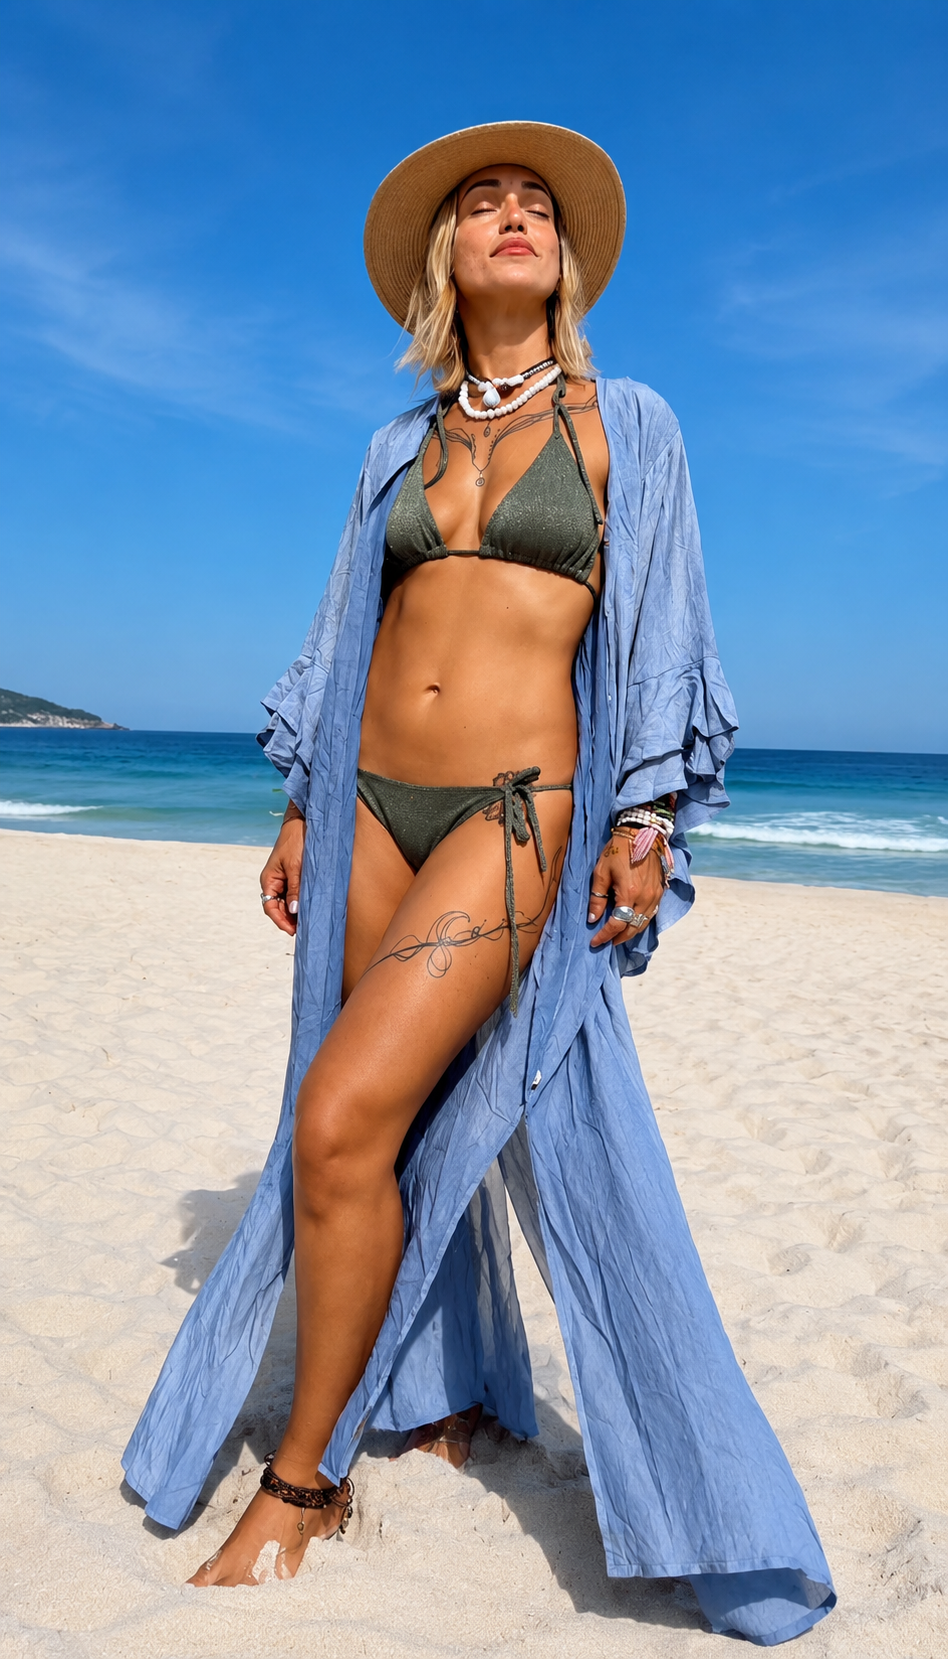
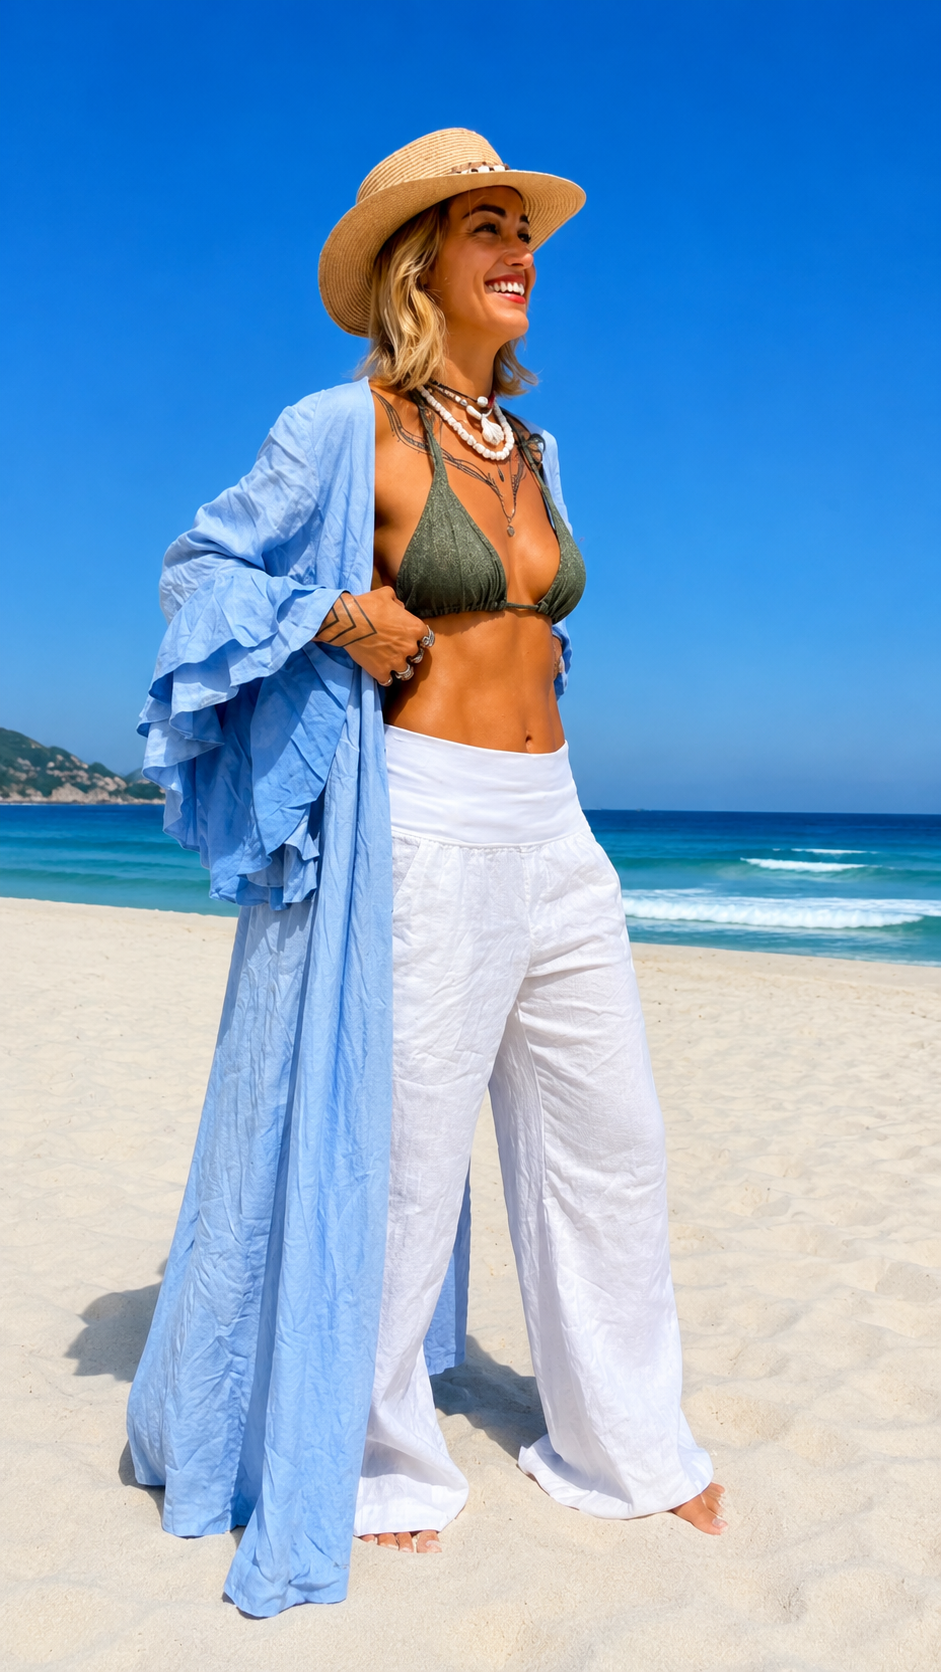
Fix Celeste image list for Chemisse Wave Voil Viscosa

diff --git a/products.js b/products.js
@@ -198,8 +198,8 @@ const products = [
             "images/Chemisse Azul Stone Medit 2002.png",
             "images/Chemisse Azul Stone Medit 2003.png",
             "images/Chemisse Azul Celeste 2000.png",
-            "images/Chemisse Azul Celeste 2003.png",
-            "images/Chemisse Azul Celeste 2002.png"
+            "images/Chemisse Azul Celeste 2001.png",
+            "images/Chemisse Azul Celeste 2003.png"
         ],
         "category": "Camisas",
         "badge": "Novo",
